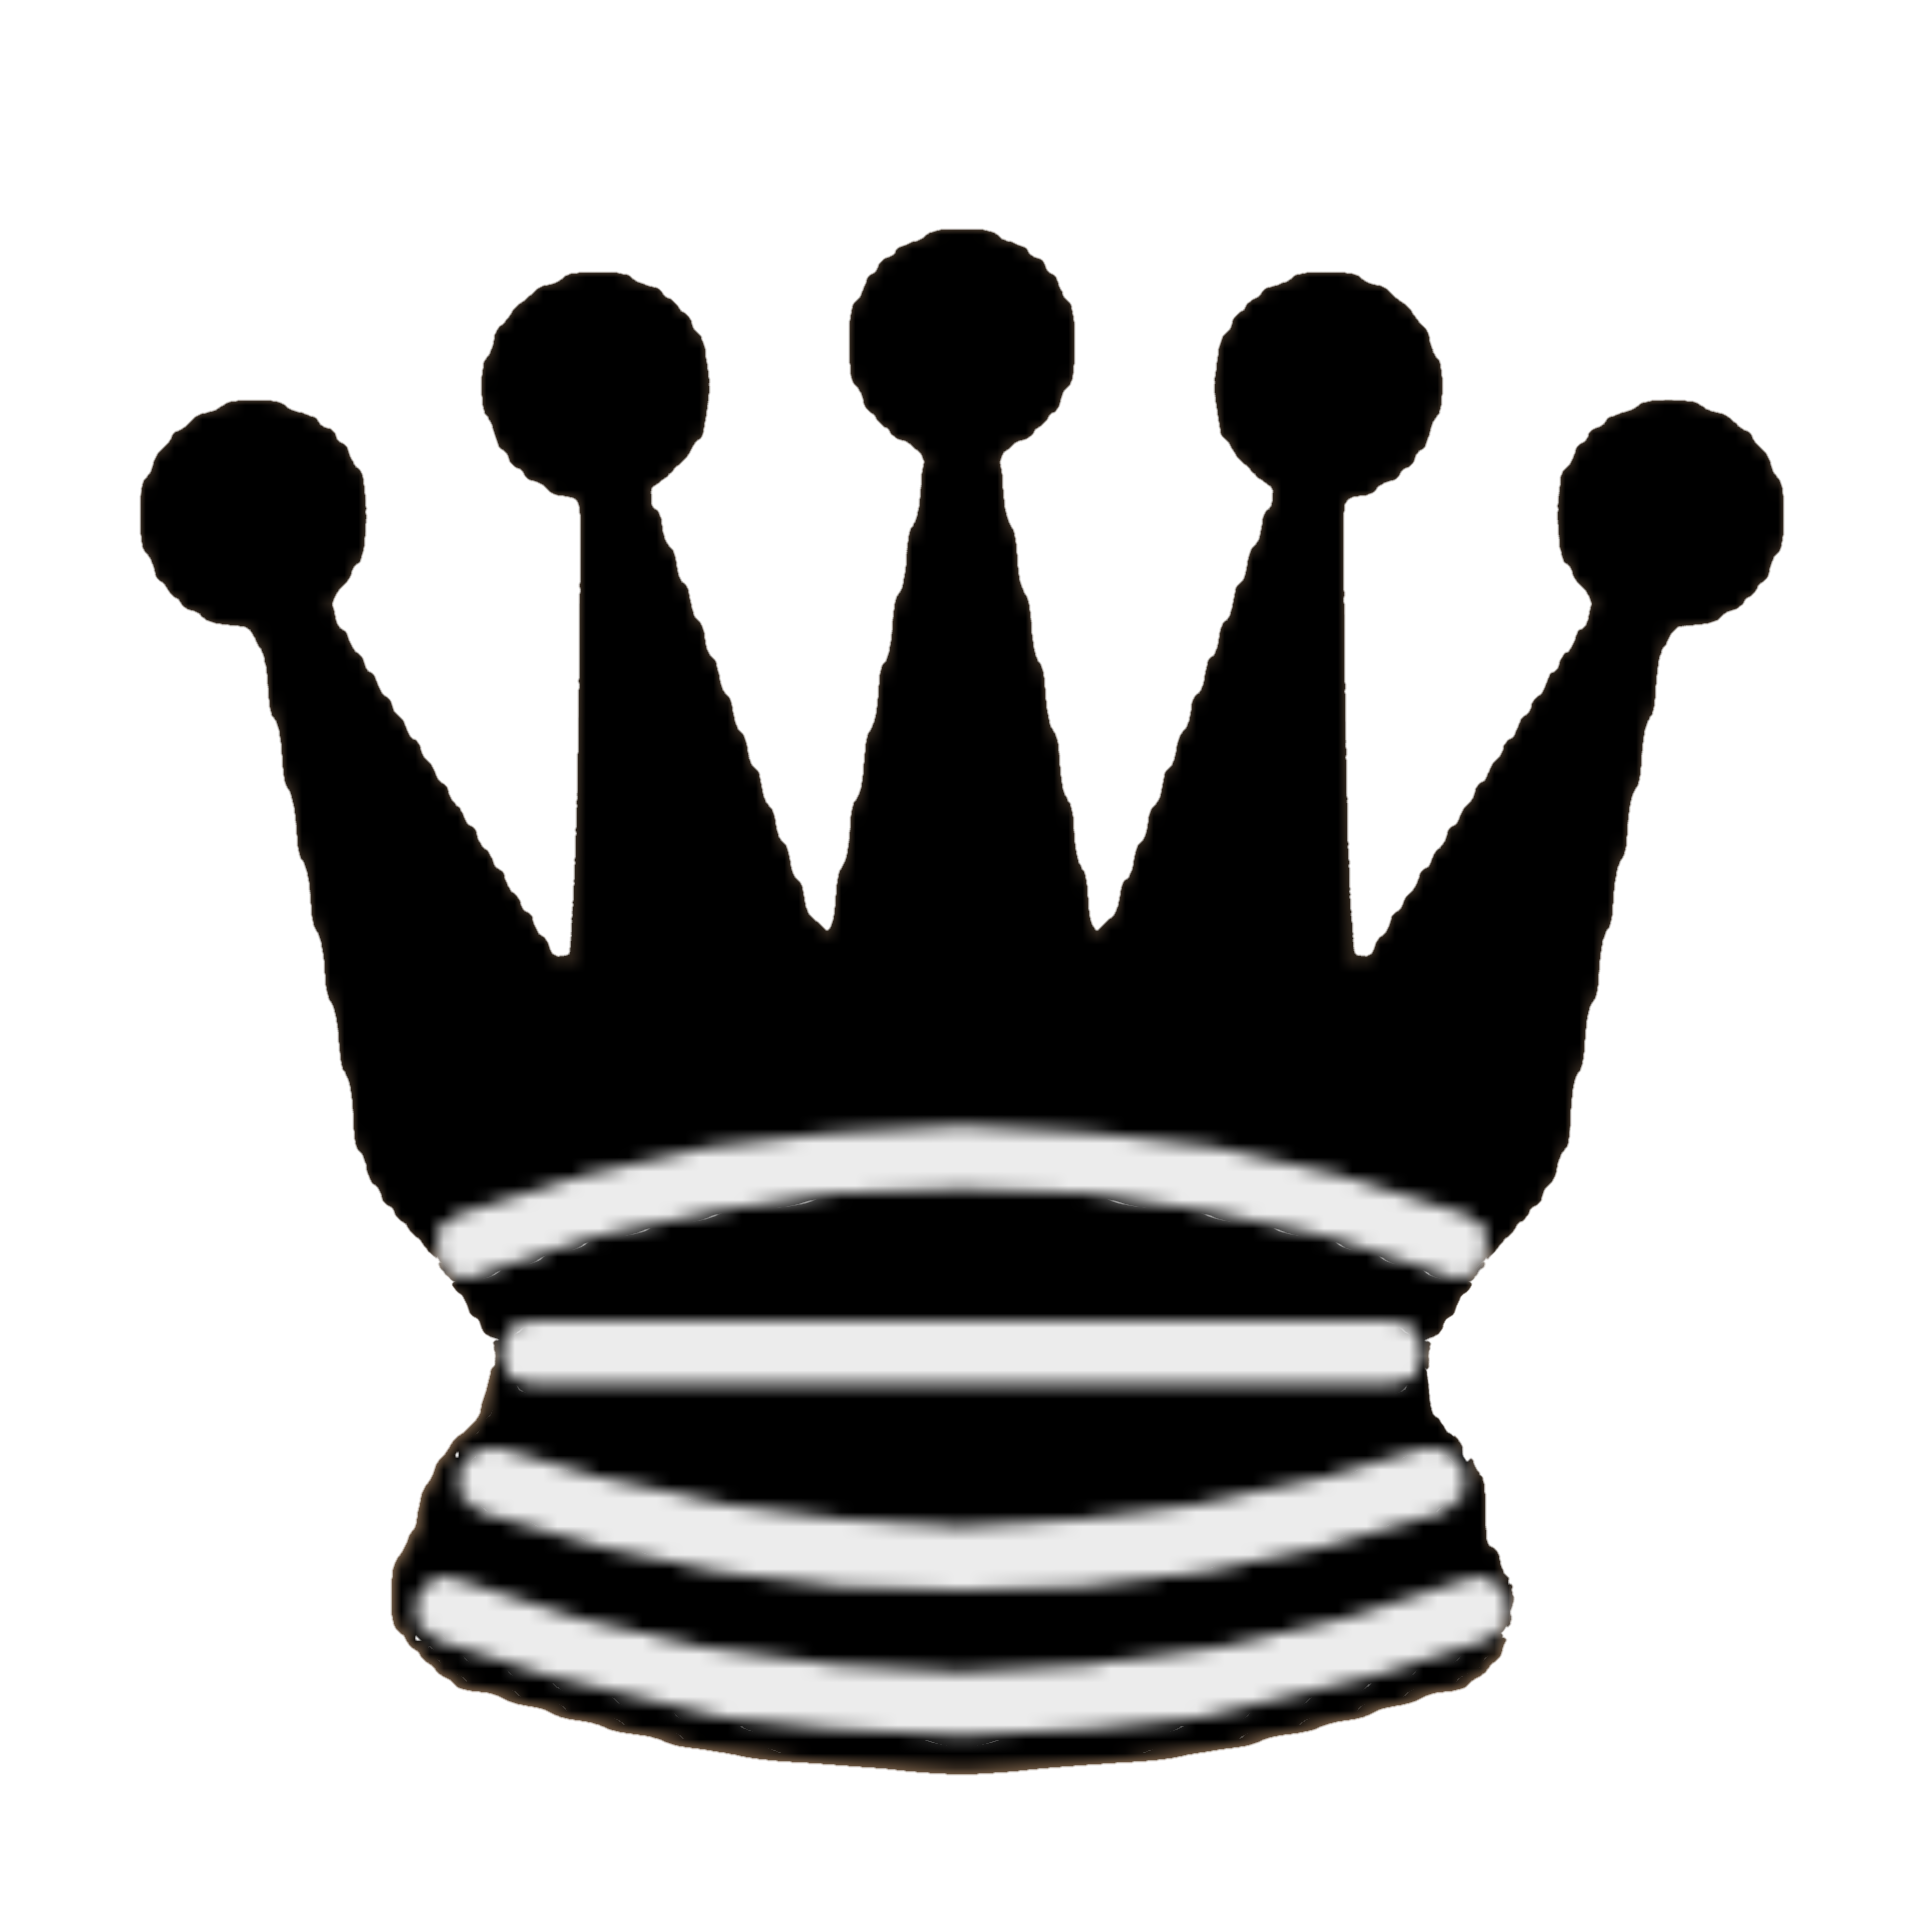
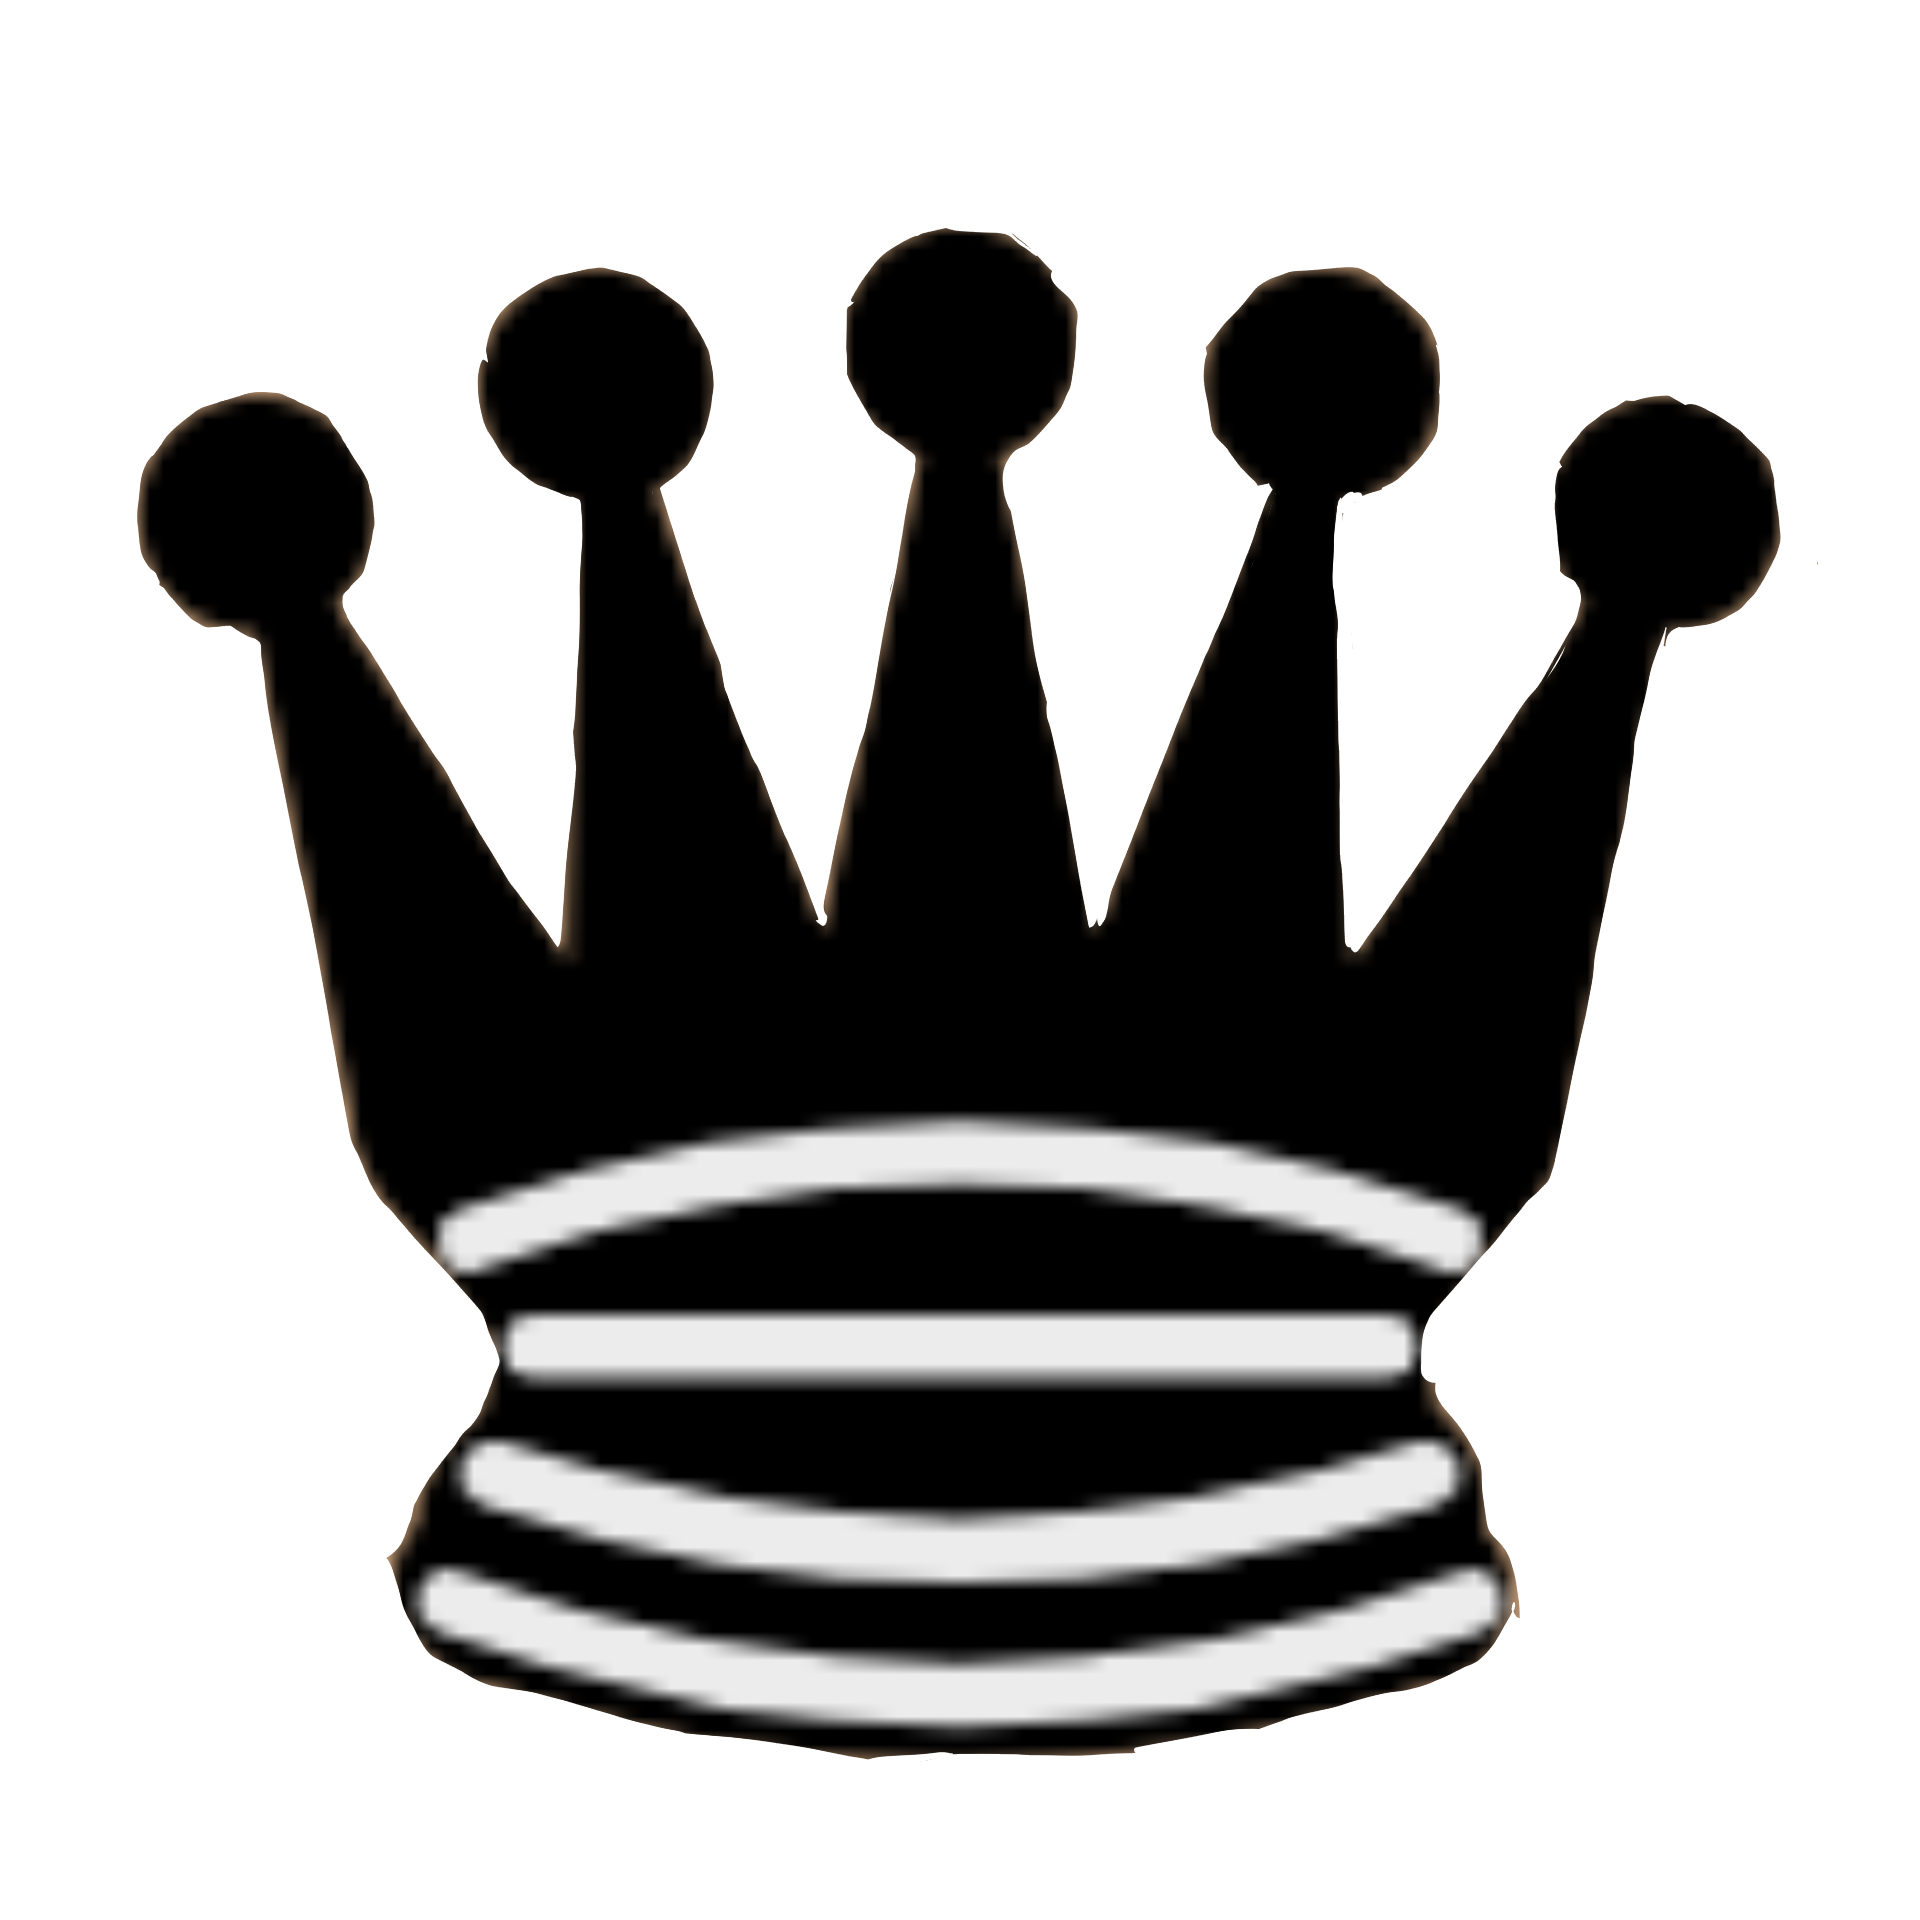
已完成大部分棋盘工作

diff --git a/core/game_state.py b/core/game_state.py
@@ -9,6 +9,7 @@ try:
     from pieces.knight import knight # type: ignore 
     from pieces.bishop import bishop # type: ignore 
     from pieces.queen import queen # type: ignore 
+    from pieces.pawn import pawn # type: ignore
     from ui.renderer import renderer # type: ignore
     import ui.input_handler as input_handler # type: ignore
     import config # type: ignore
@@ -36,8 +37,9 @@ class game:
         self.bishop_black_right = bishop("black")
         self.queen_black = queen("black")
         self.king_black = king("black")
-        
-        
+        self.pawn_black = [0 for _ in range(8)]
+        for i in range(8):
+            self.pawn_black[i] = pawn("black")
         self.rook_white_left = rook("white")
         self.rook_white_right = rook("white")
         self.knight_white_left = knight("white")
@@ -46,6 +48,9 @@ class game:
         self.bishop_white_right = bishop("white")
         self.queen_white = queen("white")
         self.king_white = king("white")
+        self.pawn_white = [0 for _ in range(8)]
+        for i in range(8):
+            self.pawn_white[i] = pawn("white")
     def initialize(self):
         self.renderer = renderer()
         self.board.board_list[0][4] = self.king_black
@@ -56,7 +61,9 @@ class game:
         self.board.board_list[0][6] = self.knight_black_right
         self.board.board_list[0][2] = self.bishop_black_left
         self.board.board_list[0][5] = self.bishop_black_right
-
+        for i in range(8):
+            self.board.board_list[1][i] = self.pawn_black[i]
+            self.board.board_list[6][i] = self.pawn_white[i]
         self.board.board_list[7][4] = self.king_white
         self.board.board_list[7][3] = self.queen_white
         self.board.board_list[7][0] = self.rook_white_left

diff --git a/config.py b/config.py
@@ -19,13 +19,13 @@ WHITE_CELL = (215, 220, 225)
 BLACK_CELL = (130, 145, 160)
 BACKGROUND_COLOR = (50, 50, 50)
 FONT_PATH = "data/fonts/Inkfree.ttf"
-BLACK_PAWN_PIECE_IMAGE_PATH = ""
+BLACK_PAWN_PIECE_IMAGE_PATH = "data/images/pawn_black.png"
 BLACK_ROOK_PIECE_IMAGE_PATH = "data/images/rook_black.png"
 BLACK_KNIGHT_PIECE_IMAGE_PATH = "data/images/knight_black.png"
 BLACK_BISHOP_PIECE_IMAGE_PATH = "data/images/bishop_black.png"
 BLACK_QUEEN_PIECE_IMAGE_PATH = "data/images/queen_black.png"
 BLACK_KING_PIECE_IMAGE_PATH = "data/images/king_black.png"
-WHITE_PAWN_PIECE_IMAGE_PATH = ""
+WHITE_PAWN_PIECE_IMAGE_PATH = "data/images/pawn_white.png"
 WHITE_ROOK_PIECE_IMAGE_PATH = "data/images/rook_white.png"
 WHITE_KNIGHT_PIECE_IMAGE_PATH = "data/images/knight_white.png"
 WHITE_BISHOP_PIECE_IMAGE_PATH = "data/images/bishop_white.png"

diff --git a/pieces/piece.py b/pieces/piece.py
@@ -30,9 +30,13 @@ class Piece(ABC):
         self.position = new_position
 
     def is_enemy(self, board_present, new_position):#需要保证此处有棋子
+        
+        
         row, col = new_position
+        
         if self.color != board_present[row][col].color:
             return True
+
     
     def generate_image(self):
         image_path = self.get_image_path()

diff --git a/ui/input_handler.py b/ui/input_handler.py
@@ -60,7 +60,7 @@ def handle_click_inboard(game):
             game.player = "white"
         else:
             game.player = "black"
-       
+        game.move_temp.piece.moved_times += 1
         game.records.append(game.move_temp)
         #print(game.records) # 加入窗口显示
         
@@ -86,6 +86,7 @@ def handle_click_inmenu(game):
                 game.player = "black"
             game.move_temp = game.records.pop()
             game.move_temp.isRetract = True
+            game.move_temp.piece.moved_times -= 1
             temp = game.move_temp.start
             game.move_temp.start = game.move_temp.end
             game.move_temp.end = temp

diff --git a/pieces/pawn.py b/pieces/pawn.py
@@ -31,7 +31,7 @@ class pawn(Piece):
                 r, c = self.position
                 d_r, d_c = vector
                 n_r, n_c = r + d_r, c + d_c
-                if self.is_enemy(board_present, (n_r, n_c)):
+                if core.rules.isinBoard(board_present, n_r, n_c) and self.is_enemy(board_present, (n_r, n_c)):
                     possible_moves.append(vector)
         return possible_moves
     

diff --git a/ui/menu.py b/ui/menu.py
@@ -41,7 +41,7 @@ class menu:
         self.gaming_button_list = []
         for i in range(2):
             for j in range(3):
-                button_temp = Button(init_co[0] + i * 200, init_co[1] + 390 + j * 70, 120, 30)
+                button_temp = Button(init_co[0] + i * 190, init_co[1] + 390 + j * 60, 130, 40)
                 self.gaming_button_list.append(button_temp)
         self.gaming_button_list.append(game_information)
         self.gaming_button_list[6].update_name("information")

diff --git a/core/move.py b/core/move.py
@@ -8,6 +8,7 @@ except ImportError as e:
     print(f"ImportError: {e}. Please check move.py")
     sys.exit(1)
 
+
 class move:
     def __init__(self,vector, piece, piece_captured = None, isRetract = False):
         self.isRetract = isRetract